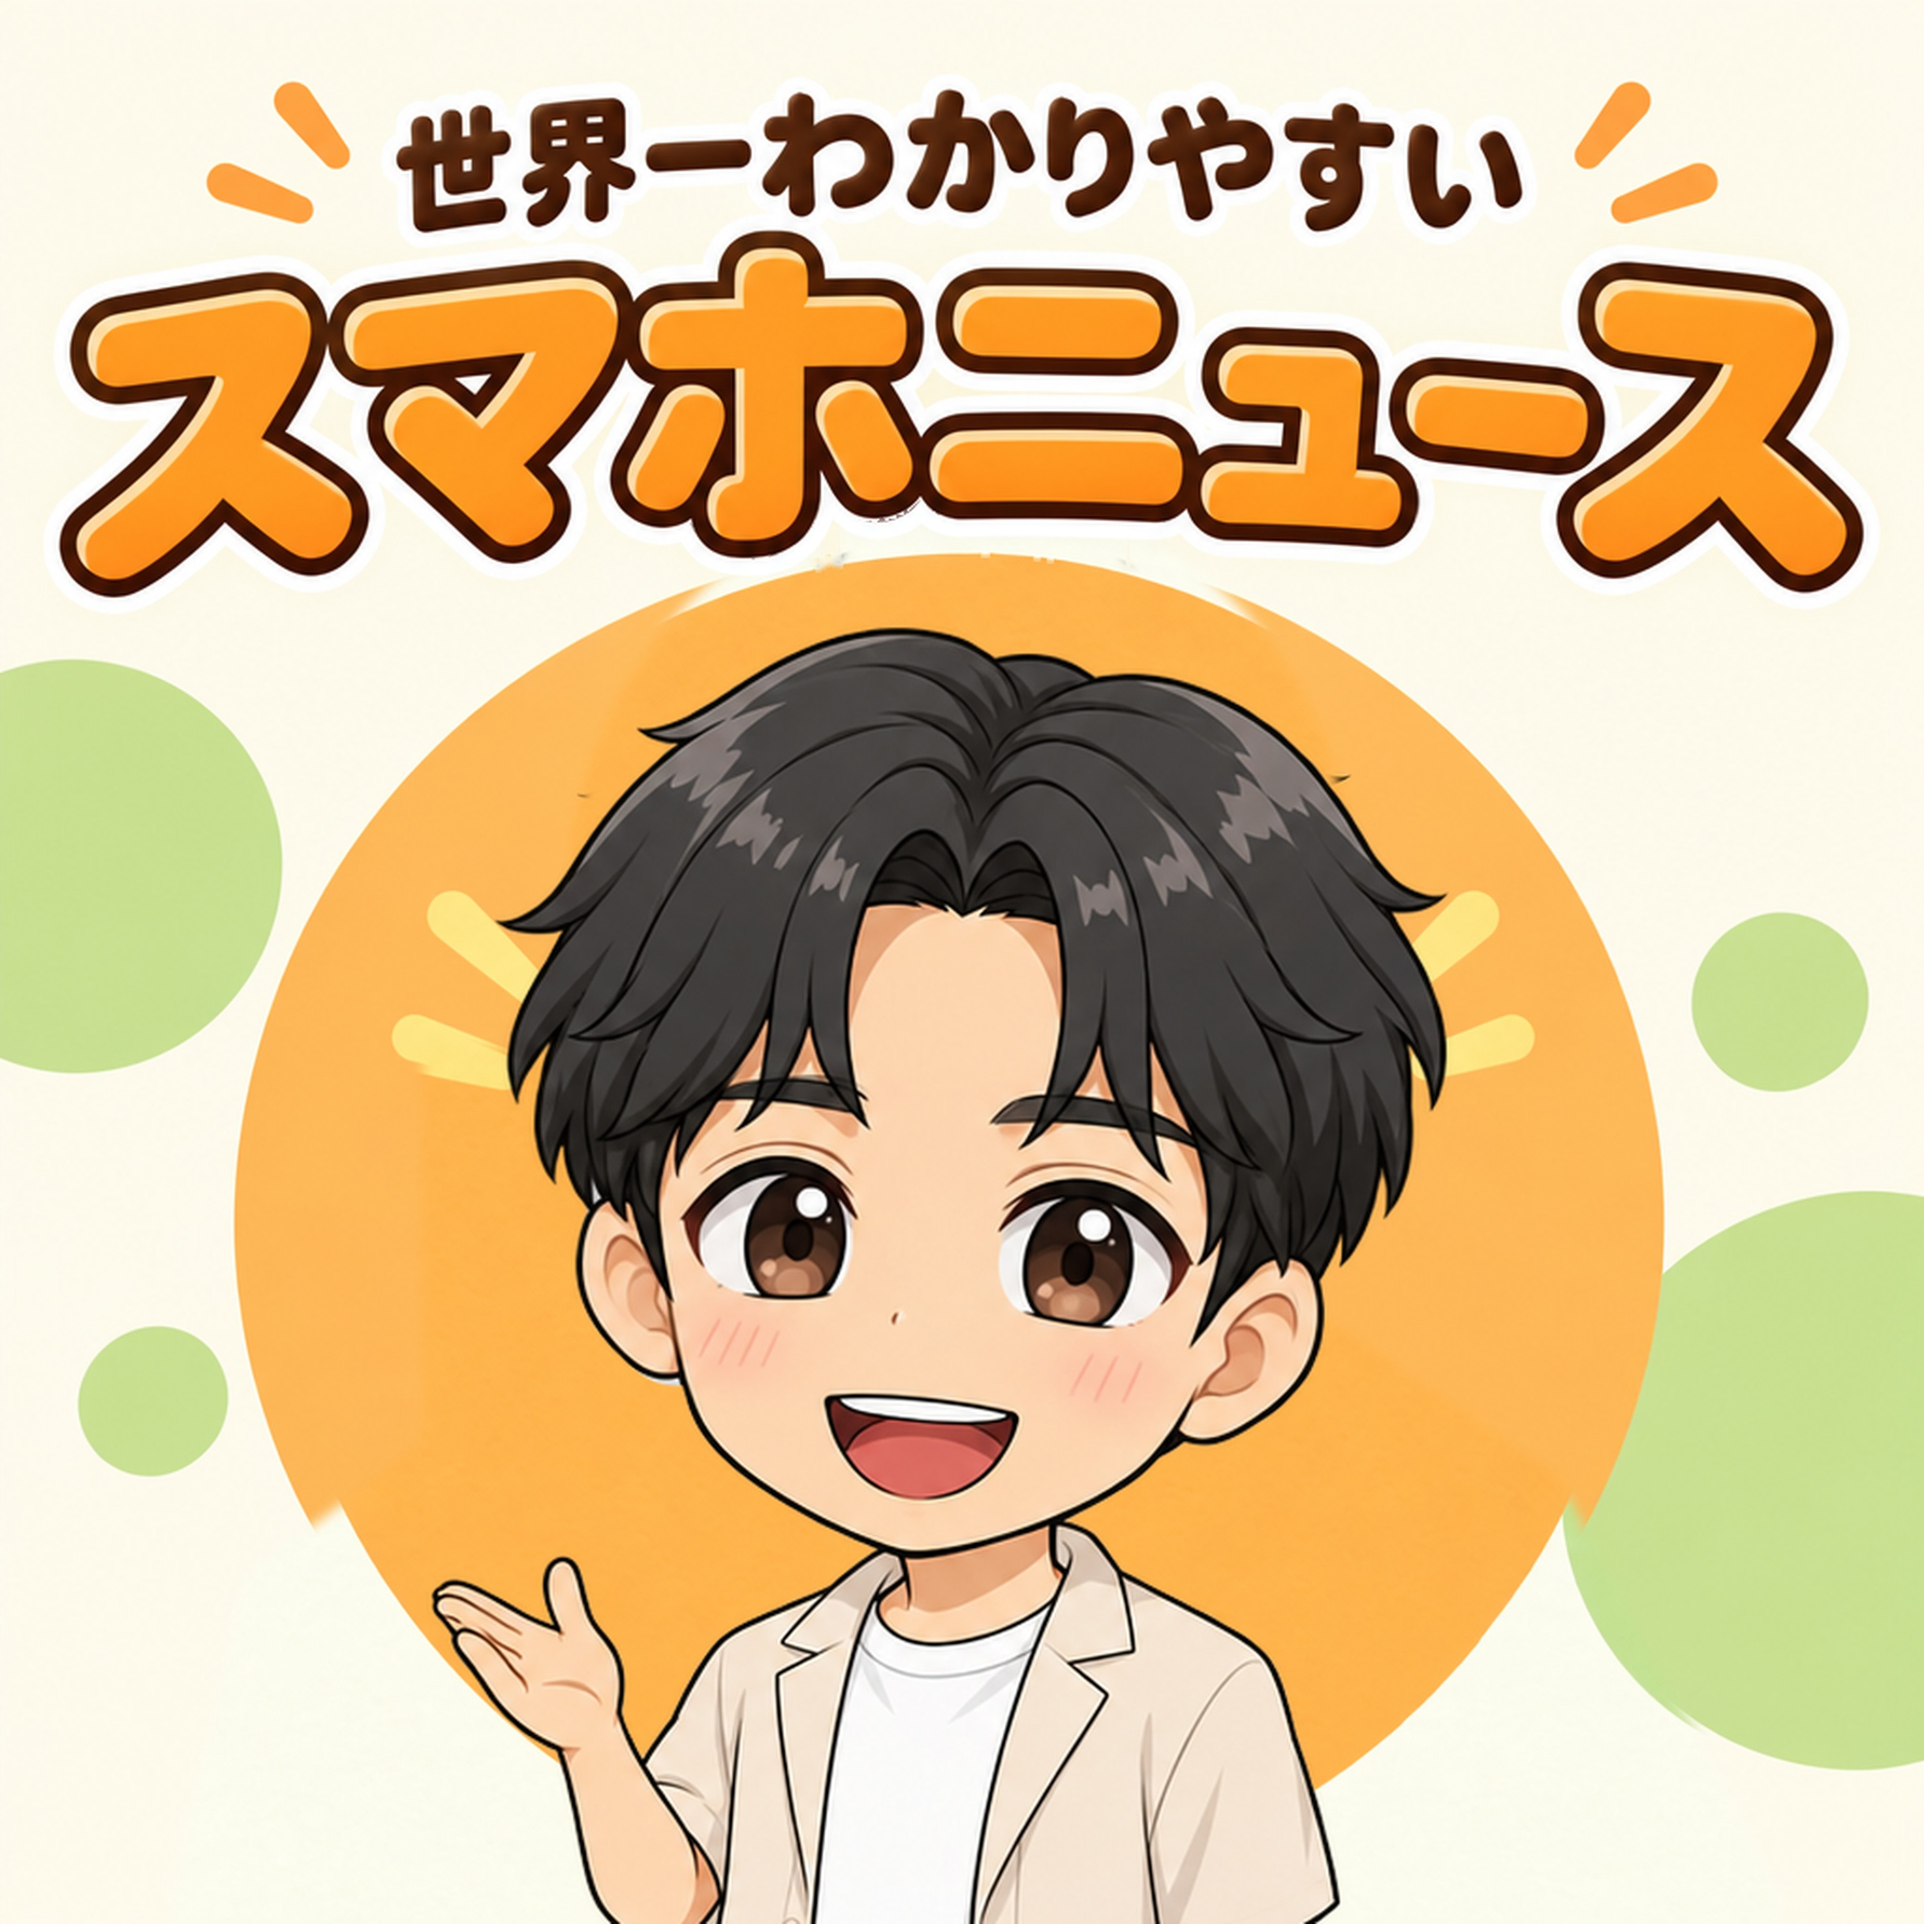
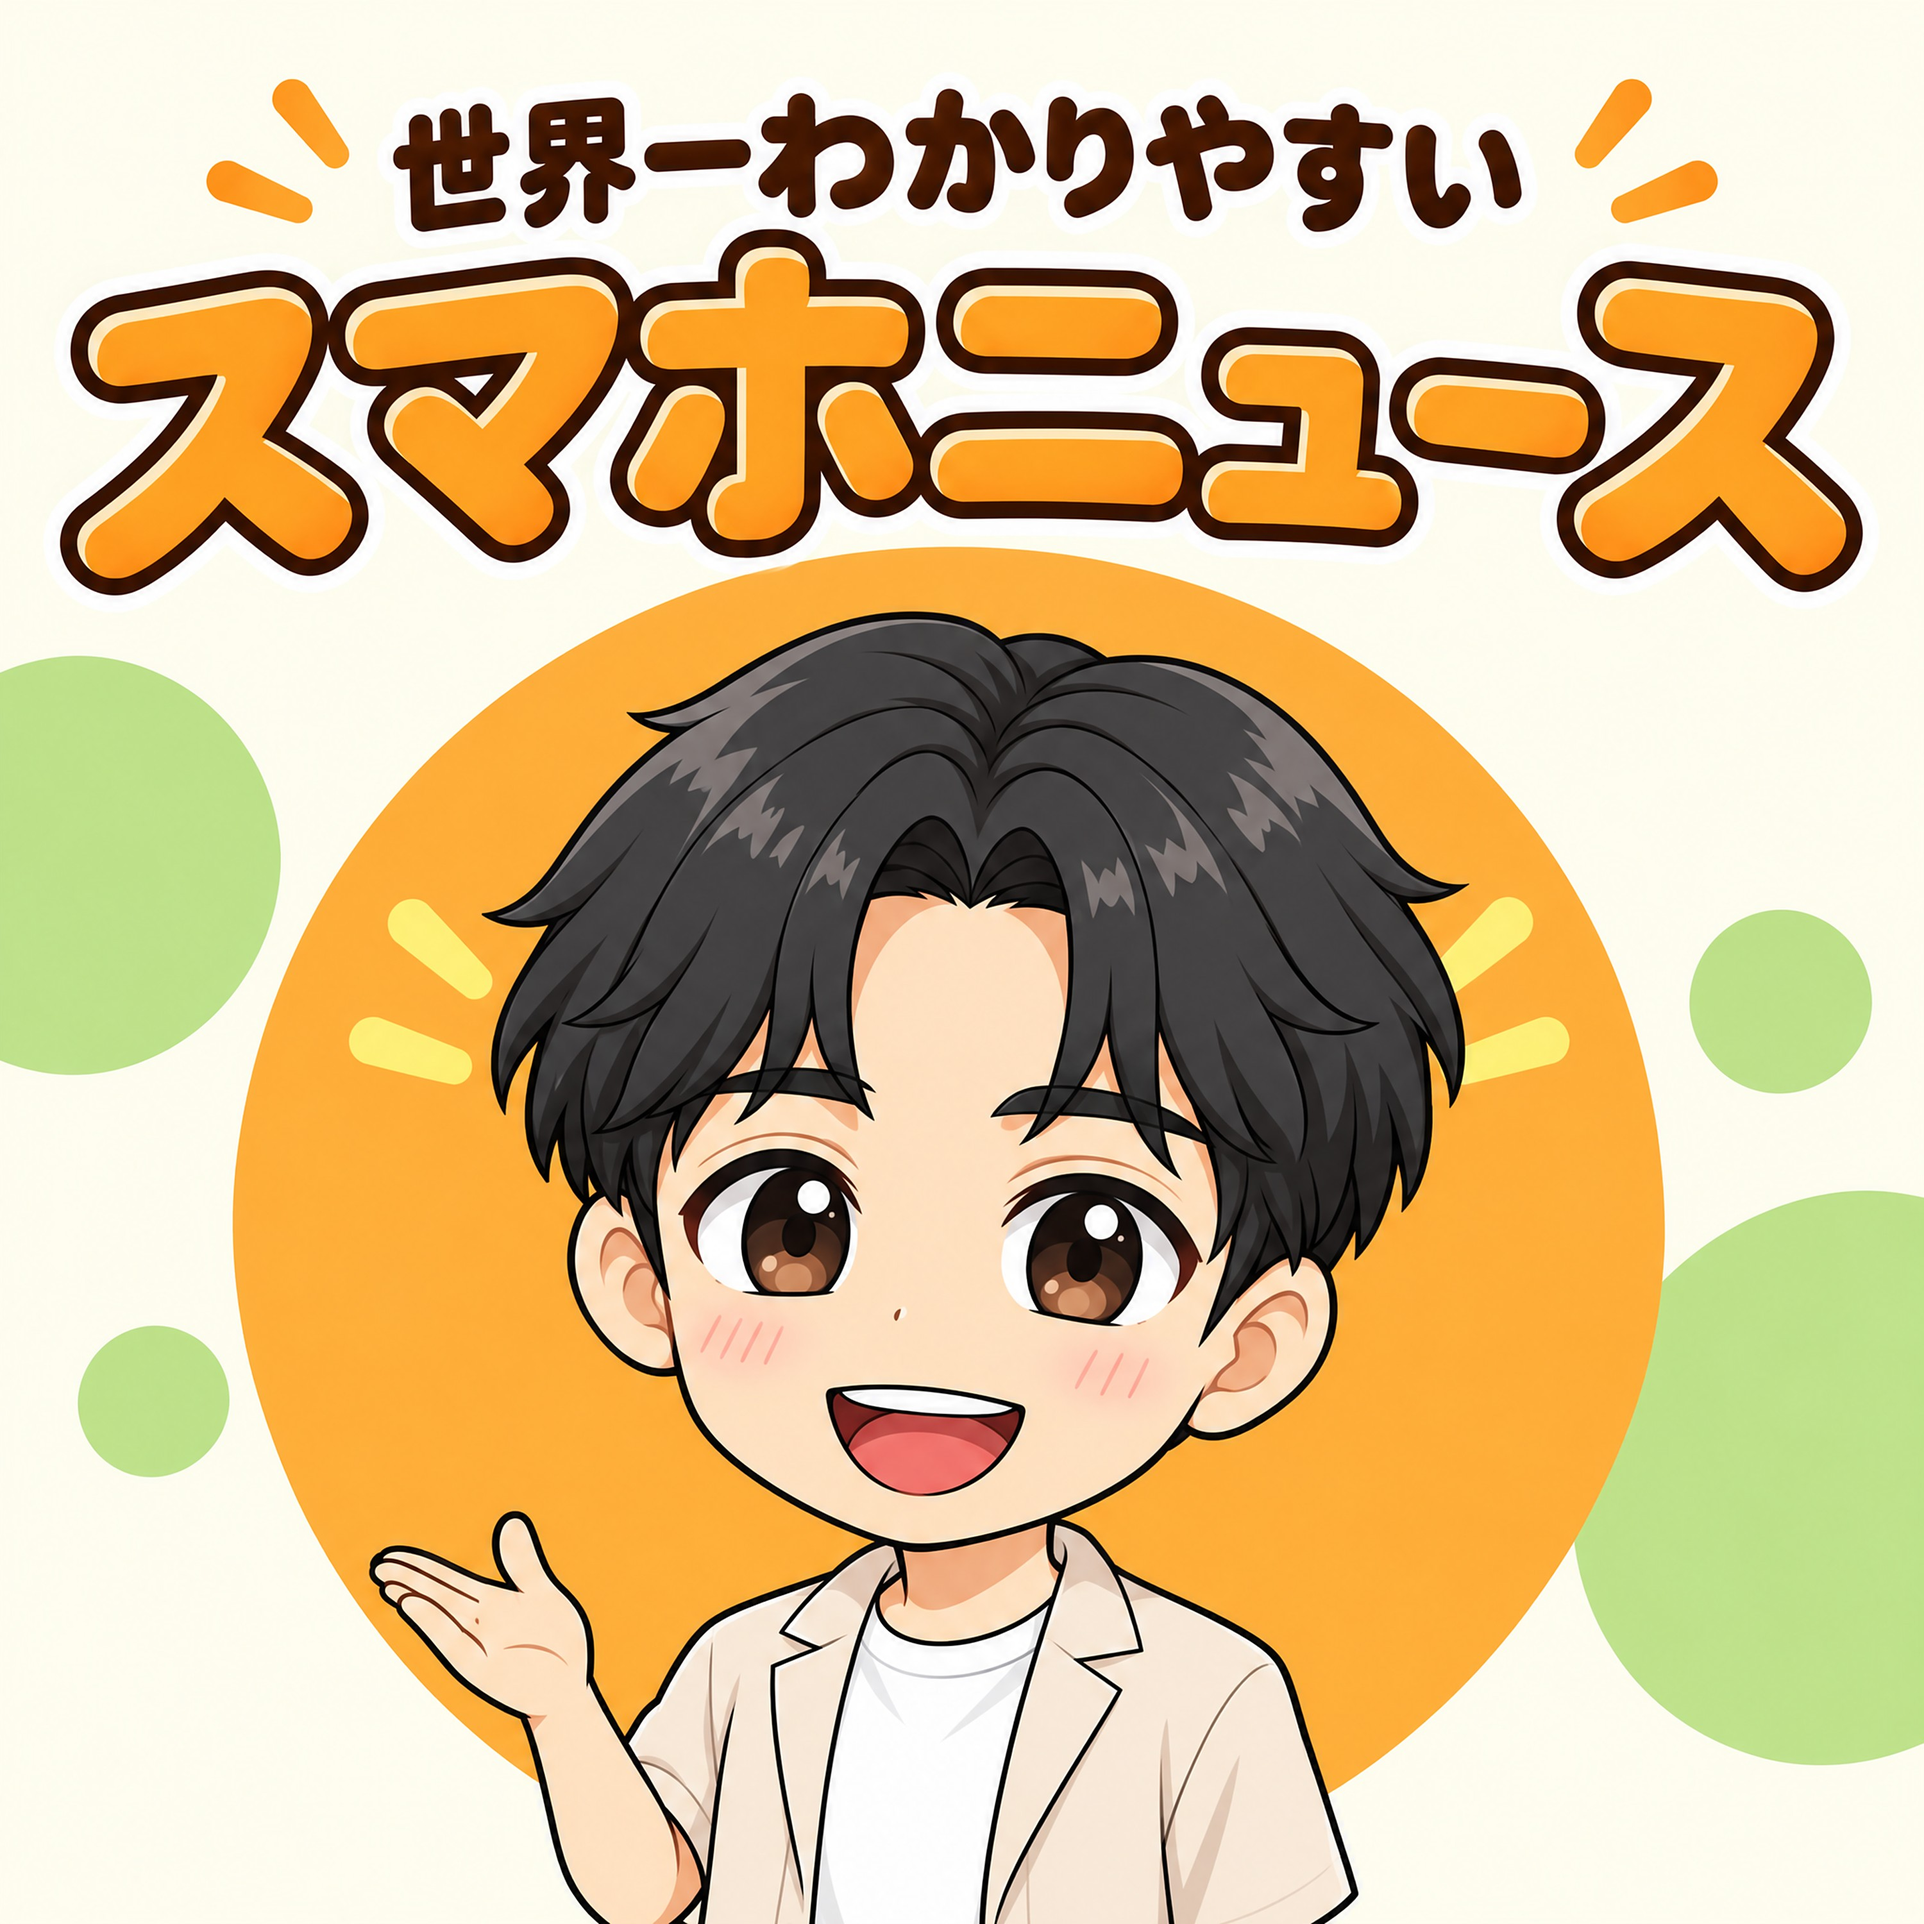
表紙をちびキャラ版で1枚まるごと描き直し（丸と題字のふちをきれいに）
藤崎さん「オレンジの丸が丸じゃない・ロゴのフチが汚い。部分修正ではなく描き直して」（2026-10-07）。
gpt-image-2.5 で 2048px で描き直し、3000px に。

diff --git a/assets/make_cover.py b/assets/make_cover.py
@@ -1,5 +1,5 @@
 #!/usr/bin/env python3
-# 【2026-10-04 から表紙は assets/cover_source.png（gpt-image-2.5 のクリーム×オレンジ案）を3000pxにしたもの。このスクリプトは旧表紙用で、動かすと上書きされるので使わない】
+# 【2026-10-04 から表紙は assets/cover_source.png（gpt-image-2.5 で描き直したちびキャラ版（2026-10-07・2048px））を3000pxにしたもの。このスクリプトは旧表紙用で、動かすと上書きされるので使わない】
 """番組の表紙（3000×3000）。AIニュースの表紙と同じ配置で、色だけ緑＋オレンジに変えた兄弟版。
 キャラは ~/ai-office/advisors/lecture/character/bust/center-plain-point-wide.png（メガネなし）を
 白背景だけ抜いた terako_cutout.png。"""
